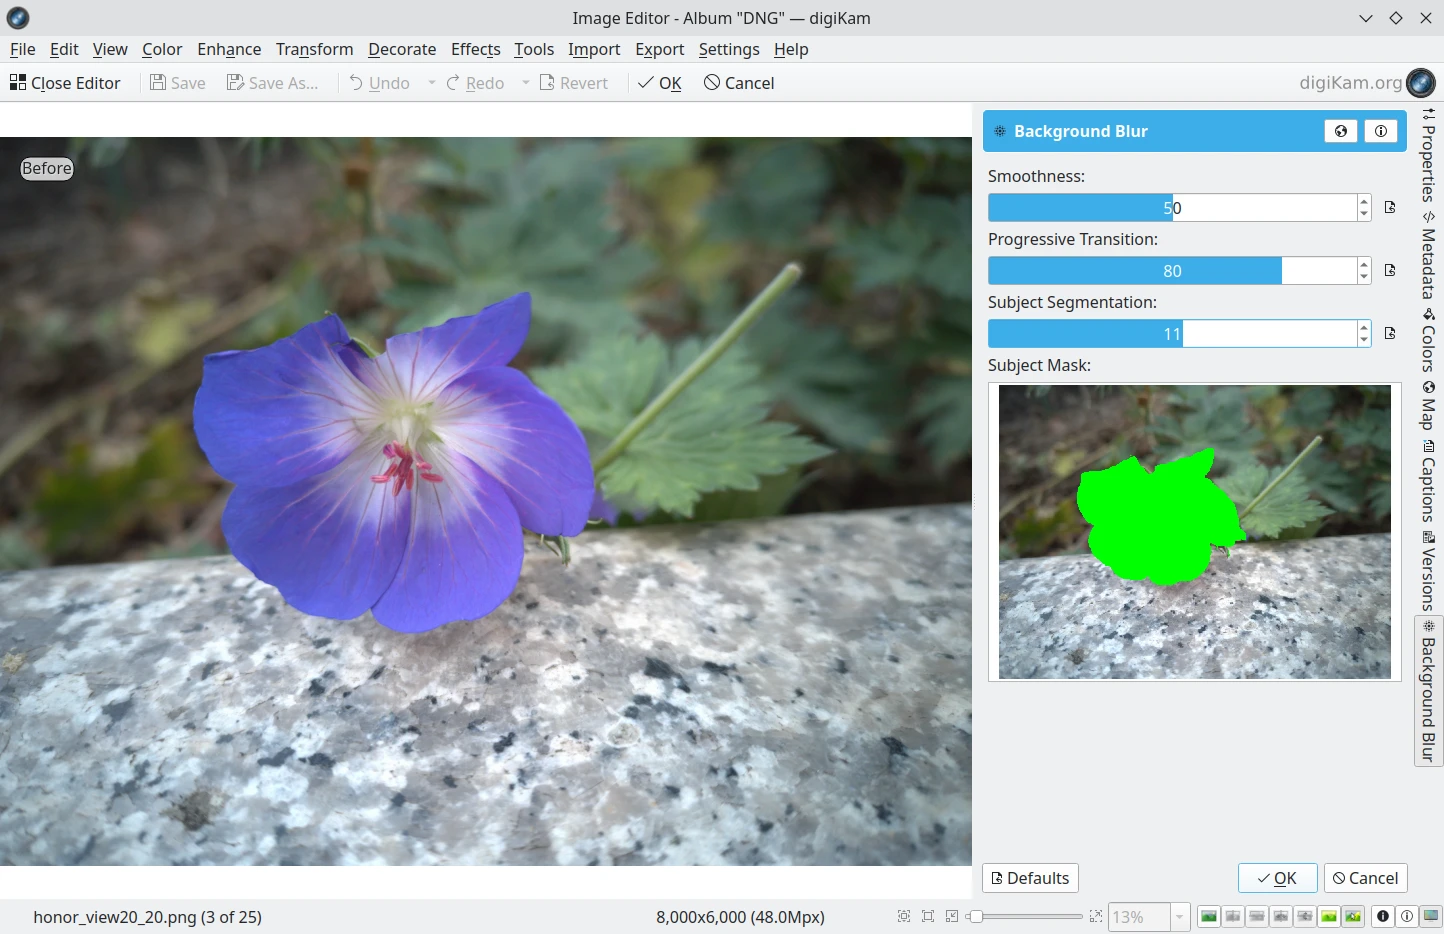
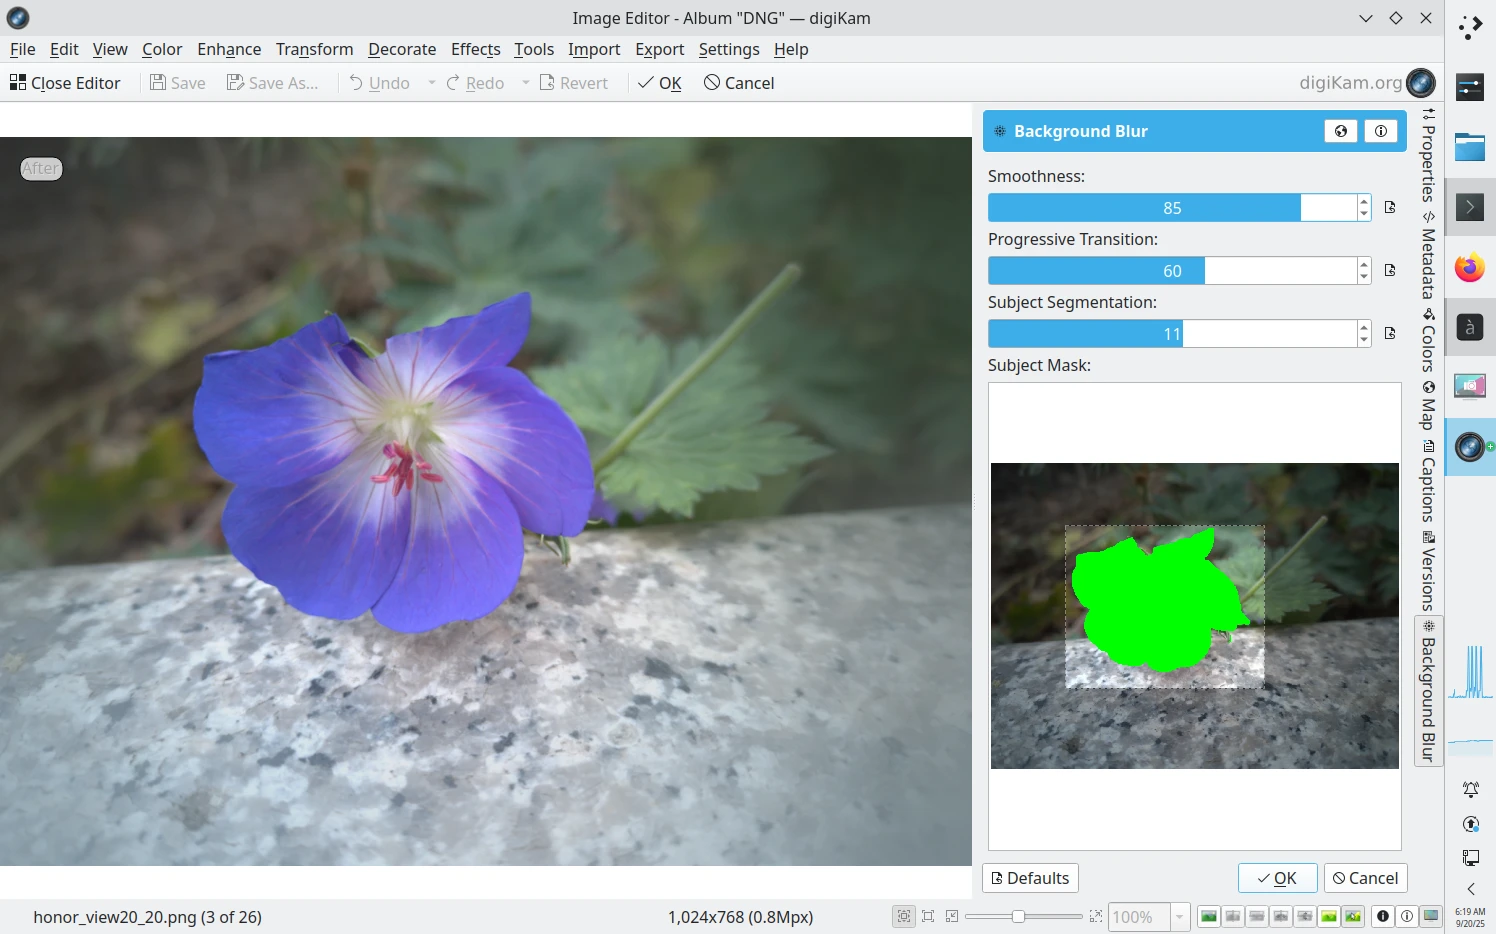
add screenshot and explainations about the editable zone arround the subject.

diff --git a/image_editor/enhancement_tools.rst b/image_editor/enhancement_tools.rst
@@ -1028,7 +1028,7 @@ The Tool interface consists of:
 
 2. **Blur Controls**: **Smoothness** controls the intensity of the background blur (1-100). **Progressive Transition** controls how gradually the blur transitions from subject to background (0-100). **Subject Segmentation** controls the accuracy of the subject segmentation (1-20).
 
-3. **Subject Mask**: shows a real-time preview of the segmentation mask using a green overlay. It helps you verify that the subject is properly selected. This preview is zoomable using the mouse wheel or the buttons on the toolbar from the top-left corner.
+3. **Subject Mask**: shows a real-time preview of the segmentation mask using a green overlay. It helps you verify that the subject is properly selected. This preview is zoomable using the mouse wheel or the buttons on the toolbar from the top-left corner, and allow to re-adjust the zone as desired.
 
 Using the Tool
 ~~~~~~~~~~~~~~
@@ -1041,9 +1041,17 @@ Using the Tool
 
 4. **Refine the Segmentation**: use the **Subject Segmentation** slider to improve the accuracy of the subject detection and isolation. Higher values (10-20) work better for complex subjects like hair or fur. Lower values (1-5) are sufficient for simple subjects with clear edges.
 
-5. **Preview the Result**: the green overlay shows which areas will remain sharp. Adjust your selection or parameters as needed.
+5. **Adjust the subject area**: use the **Subject Mask** preview widget functionalities to zoom / pan the preview canvas and adjust the desired zone surrounding the subject.
 
-6. **Apply the Effect**: click **OK** to apply the effect to your image. Click **Cancel** to discard your changes.
+6. **Preview the Result**: the green overlay shows which areas will remain sharp. Adjust your selection or parameters as needed.
+
+7. **Apply the Effect**: click **OK** to apply the effect to your image. Click **Cancel** to discard your changes.
+
+.. figure:: images/editor_backgroundblur_mask.webp
+   :alt:
+   :align: center
+
+   The Mask View Allow to Edit the Rectangle Surrounding the Subject.
 
 Parameters
 ~~~~~~~~~~
